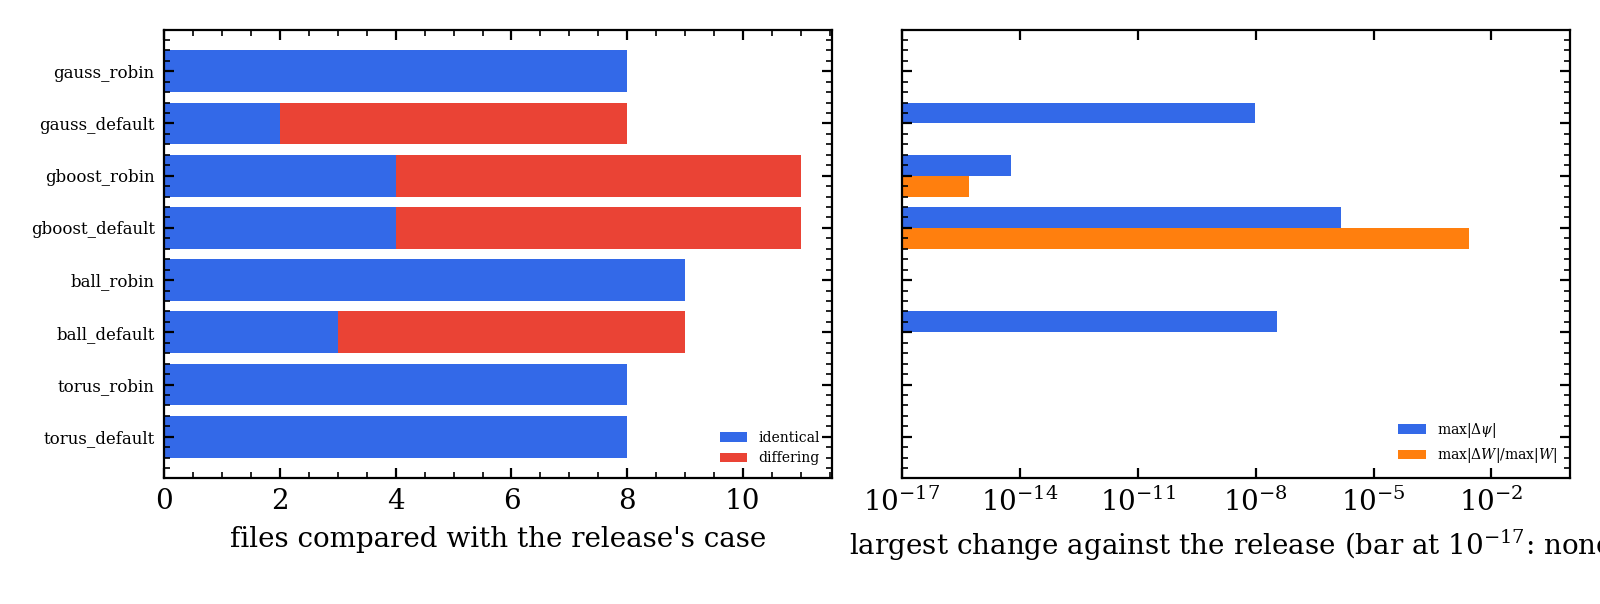
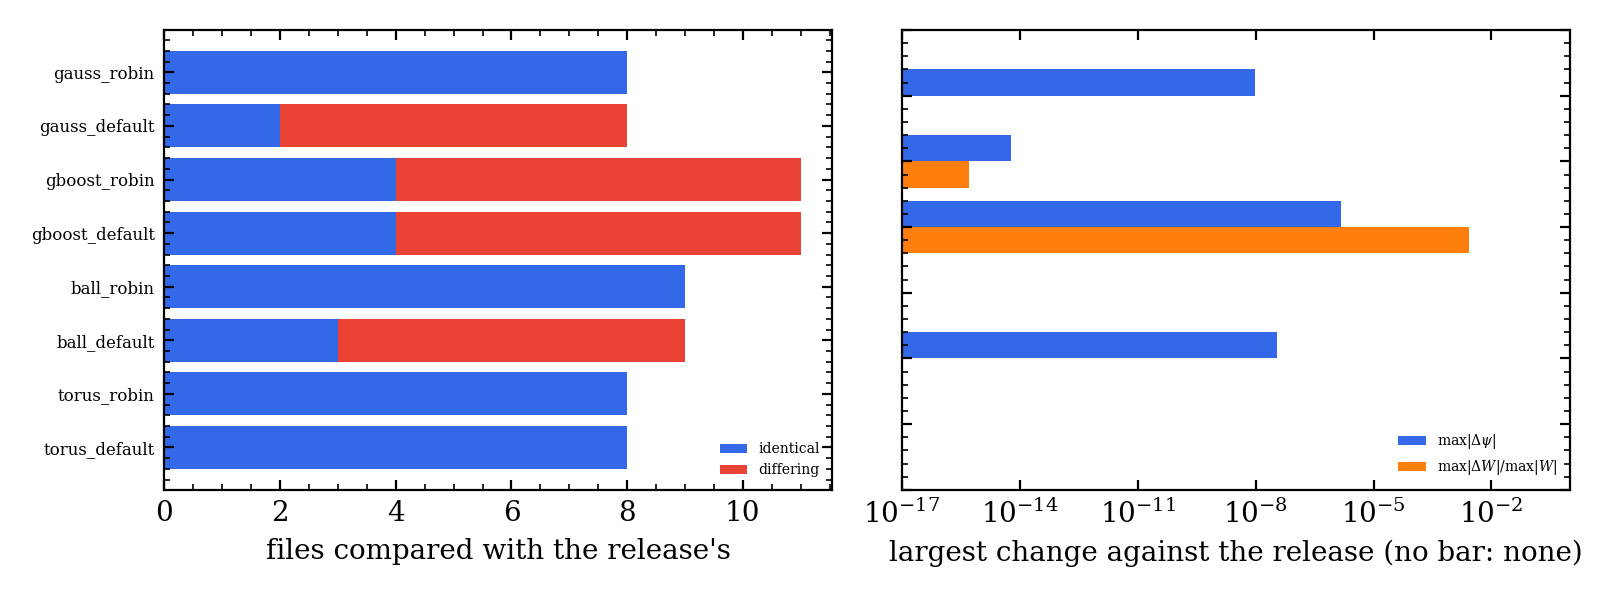
Figures of M0 and M1 redrawn (run core-20261121-080921-42e8213); rows of the right panel of regress_m1 aligned with the left; shorter label in regress_r2

diff --git a/tracks/core/analysis/idsolve2/regress_r2.py b/tracks/core/analysis/idsolve2/regress_r2.py
@@ -168,7 +168,7 @@ def main():
     axs[0].set_yticks(y)
     axs[0].set_yticklabels(names, fontsize=5)
     axs[0].invert_yaxis()
-    axs[0].set_xlabel("files compared (old case against its replay)")
+    axs[0].set_xlabel("files compared with the old case")
     axs[0].legend(fontsize=5, loc="lower right")
     for name, e in rep["changed"].items():
         axs[1].semilogy(e["old"]["x"], np.maximum(e["old"]["s_x_axis"], 1e-20), "-",

diff --git a/tracks/core/analysis/idsolve2/regress_m1.py b/tracks/core/analysis/idsolve2/regress_m1.py
@@ -182,7 +182,7 @@ def figure(rep, root):
     axs[1].set_xlim(floor, 1.0)
     axs[1].set_yticks(y)
     axs[1].set_yticklabels([])
-    axs[1].invert_yaxis()
+    axs[1].set_ylim(axs[0].get_ylim())      # the rows of the left panel
     axs[1].set_xlabel("largest change against the release (no bar: none)")
     axs[1].legend(fontsize=5, loc="lower right")
     fig.tight_layout()
